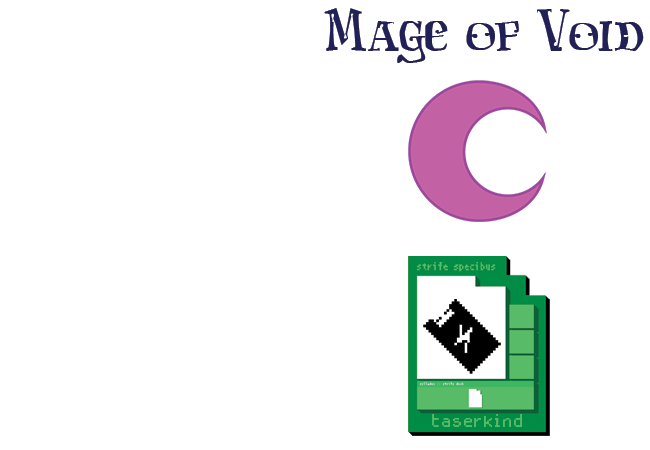
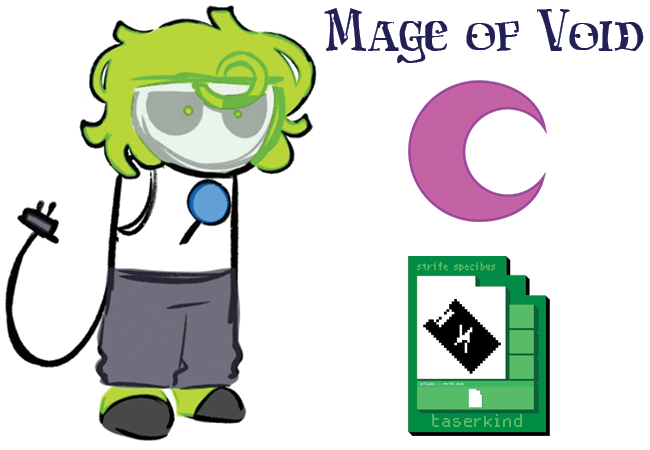
Add files via upload

Changed region(s): [[0.0, 0.0, 0.4923, 0.9956]]

diff --git a/player.html b/player.html
@@ -12,7 +12,7 @@
 <body>
 <div id="body">
 <h1> Players</h1>
-<img src="Images/test1.jpg" width="100%" height="45%" alt=""/> 
+<img src="Images/sburb.png" width="100%" height="45%" alt=""/> 
 	<div id="nav"><a href="trix.html">>Trix</a>		<a href="liam.html">>Liam</a>		<a href="beau.html">>Beau</a>	<a href="core.html">>CORE</a>  <a href="amberynn.html">>Amberynn</a> <a href="chai.html">>Chai</a> </div>
 <p>Hi welcome to the players page! In this page you will be able to look at all of the players and what they look like, strife specibus, and what their CLASSPECT is. Just click on the links above to find out more about your party.</p>
 <div id="nav"><a href="news.html">>Home</a>		<a href="support.html">>Other Characters</a>		<a href="lore.html">>Lore</a></div>	

diff --git a/support.html b/support.html
@@ -12,8 +12,8 @@
 
 <body>
 <div id="body">
-<h1> Support</h1>
-	<img src="Images/test1.jpg" width="100%" height="45%" alt=""/> 
+<h1> Other Characters</h1>
+	<img src="Images/test1.jpg" width="100%" height="100%" alt=""/> 
 <div id="nav"><a href="gaurdians.html">>Guardians</a>	<a href="exile.html">>Exiles</a>	<a href="prospit.html">>Prospit</a>		<a href="derse.html">>Derse</a>	<a href="villain.html">>Villains</a></div>	
  <p>This page will have information on GUARIANS, and characters from PROSPIT and DERSE. Any MAIN VILLAIN will go in VILLAINS, however anyone could be considered a "villain" and not be added in there. </p>
 <div id="nav"><a href="news.html">>Home</a>		<a href="player.html">>Players</a>		<a href="lore.html">>Lore</a></div>	

diff --git a/mystyle.css b/mystyle.css
@@ -9,6 +9,7 @@ body{
 
 }
 #body {
+	align-content: center;
 	background-color: #eeedee;
 	width: 65%;
 	border-color:  #C7C6C6;
@@ -32,7 +33,7 @@ a:link {
 
 /*visited link*/
 a:visited {
-  color: #551A8B;
+  color: #0000EE;
 	padding:10px 15px;
 	margin: 5px 15px;
 	border-radius: 5px;
@@ -54,7 +55,7 @@ a:visited {
 	padding: 15px
 }
 p{
- font-family: 'Courier New', monospace; font-weight: bold; padding: 30px;font-size: 25px;
+ font-family: 'Courier New', monospace; font-weight: bold; padding: 25px;font-size: 25px;
 		}
 h1 {
 			font-family: 'Courier New', monospace; font-weight: bold;

diff --git a/amberynn.html b/amberynn.html
@@ -12,7 +12,7 @@
 <body>
 <div id="body">
 <h1> Amberynn Grover</h1>
-<img src="Images/test1.jpg" width="100%" height="45%" alt=""/> 
+<img src="Images/rynn.png" width="100%" height="45%" alt=""/> 
 <h1>
 History	
 	</h1>

diff --git a/trix.html b/trix.html
@@ -12,7 +12,7 @@
 <body>
 <div id="body">
 <h1> Trix Arledge</h1>
-<img src="Images/trix.png" width="100%" height="45%" alt=""/> 
+<img src="Images/trix.png" width="100%" height="100%" alt=""/> 
 <h1>
 History	
 	</h1>

diff --git a/chai.html b/chai.html
@@ -12,7 +12,7 @@
 <body>
 <div id="body">
 <h1> Chai Luong</h1>
-<img src="Images/test1.jpg" width="100%" height="45%" alt=""/> 
+<img src="Images/chai.png" width="100%" height="45%" alt=""/> 
 <h1>
 History	
 	</h1>

diff --git a/exile.html b/exile.html
@@ -16,7 +16,7 @@
 <h1> Exiles</h1>
 	
 <h2>G.Name</h2>
-	<img src="Images/test1.jpg" width="100%" height="45%" alt=""/> 
+	<img src="Images/test1.jpg" width="100%" height="100%" alt=""/> 
 <p>
 	G.Description
 	</p>

diff --git a/liam.html b/liam.html
@@ -12,7 +12,7 @@
 <body>
 <div id="body">
 <h1> Liam</h1>
-<img src="Images/test1.jpg" width="100%" height="45%" alt=""/> 
+<img src="Images/liam.png" width="100%" height="45%" alt=""/> 
 <h1>
 History	
 	</h1>
